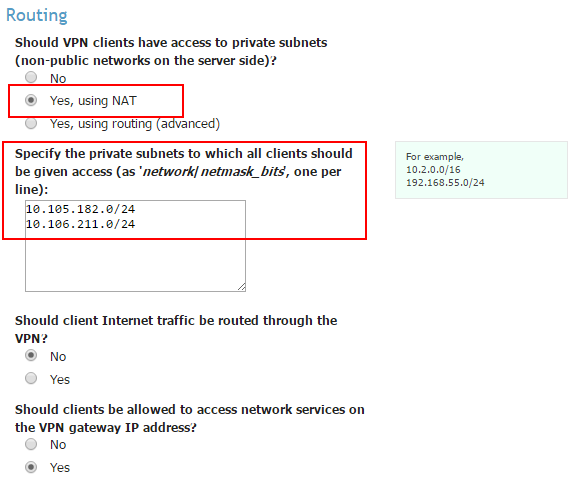
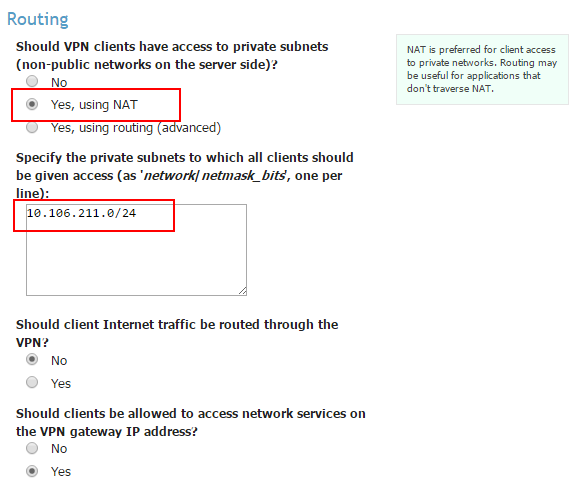
fixes per Gavin's feedback
fixes per Gavin's feedback

diff --git a/Network/centurylink-cloud-guide-to-openvpn-access-server.md b/Network/centurylink-cloud-guide-to-openvpn-access-server.md
@@ -370,11 +370,13 @@ To create an active and standby configuration using OpenVPN Access Server follow
 
 ### Adding Routes to CenturyLink Cloud VLANs
 
-1. Navigate to **Configuration > VPN Settings** in the Web Admin UI.  In the **Routing** section, confirm **Yes, via NAT** is selected and input the CenturyLink Cloud vlans you wish to allow Client VPN users to access once connected.  Generally, this list includes (1) the vlan in which the OpenVPN AS server resides and (2) any vlans that you wish to deliver services from to end users.  CenturyLink Cloud uses /24 networks.  
+1. Navigate to **Configuration > VPN Settings** in the Web Admin UI.  In the **Routing** section, confirm **Yes, via NAT** is selected and input the CenturyLink Cloud vlans you wish to allow Client VPN users to access once connected.  Generally, this list includes any vlans that you wish to deliver services from to end users.  CenturyLink Cloud uses /24 networks.
 
     ![vlan routes](../images/centurylink-cloud-guide-to-openvpn-access-server-09.png)
 
 2. Choose **Save Settings**, followed by **Update Running Server.**
+
+3. Add [Intra Data Center](../Network/connecting-data-center-networks-through-firewall-policies.md) and [Cross Data Center](../Network/creating-cross-data-center-firewall-policies.md) firewall policies from the OpenVPN Access Server vlan to the vlans (networks) that house your services client vpn users will consume.  
 
 ### Configuring LDAP Authentication
 While there are various authentication methods (Local, PAM, Radius, LDAP) this example guide will focus on using LDAP.  
